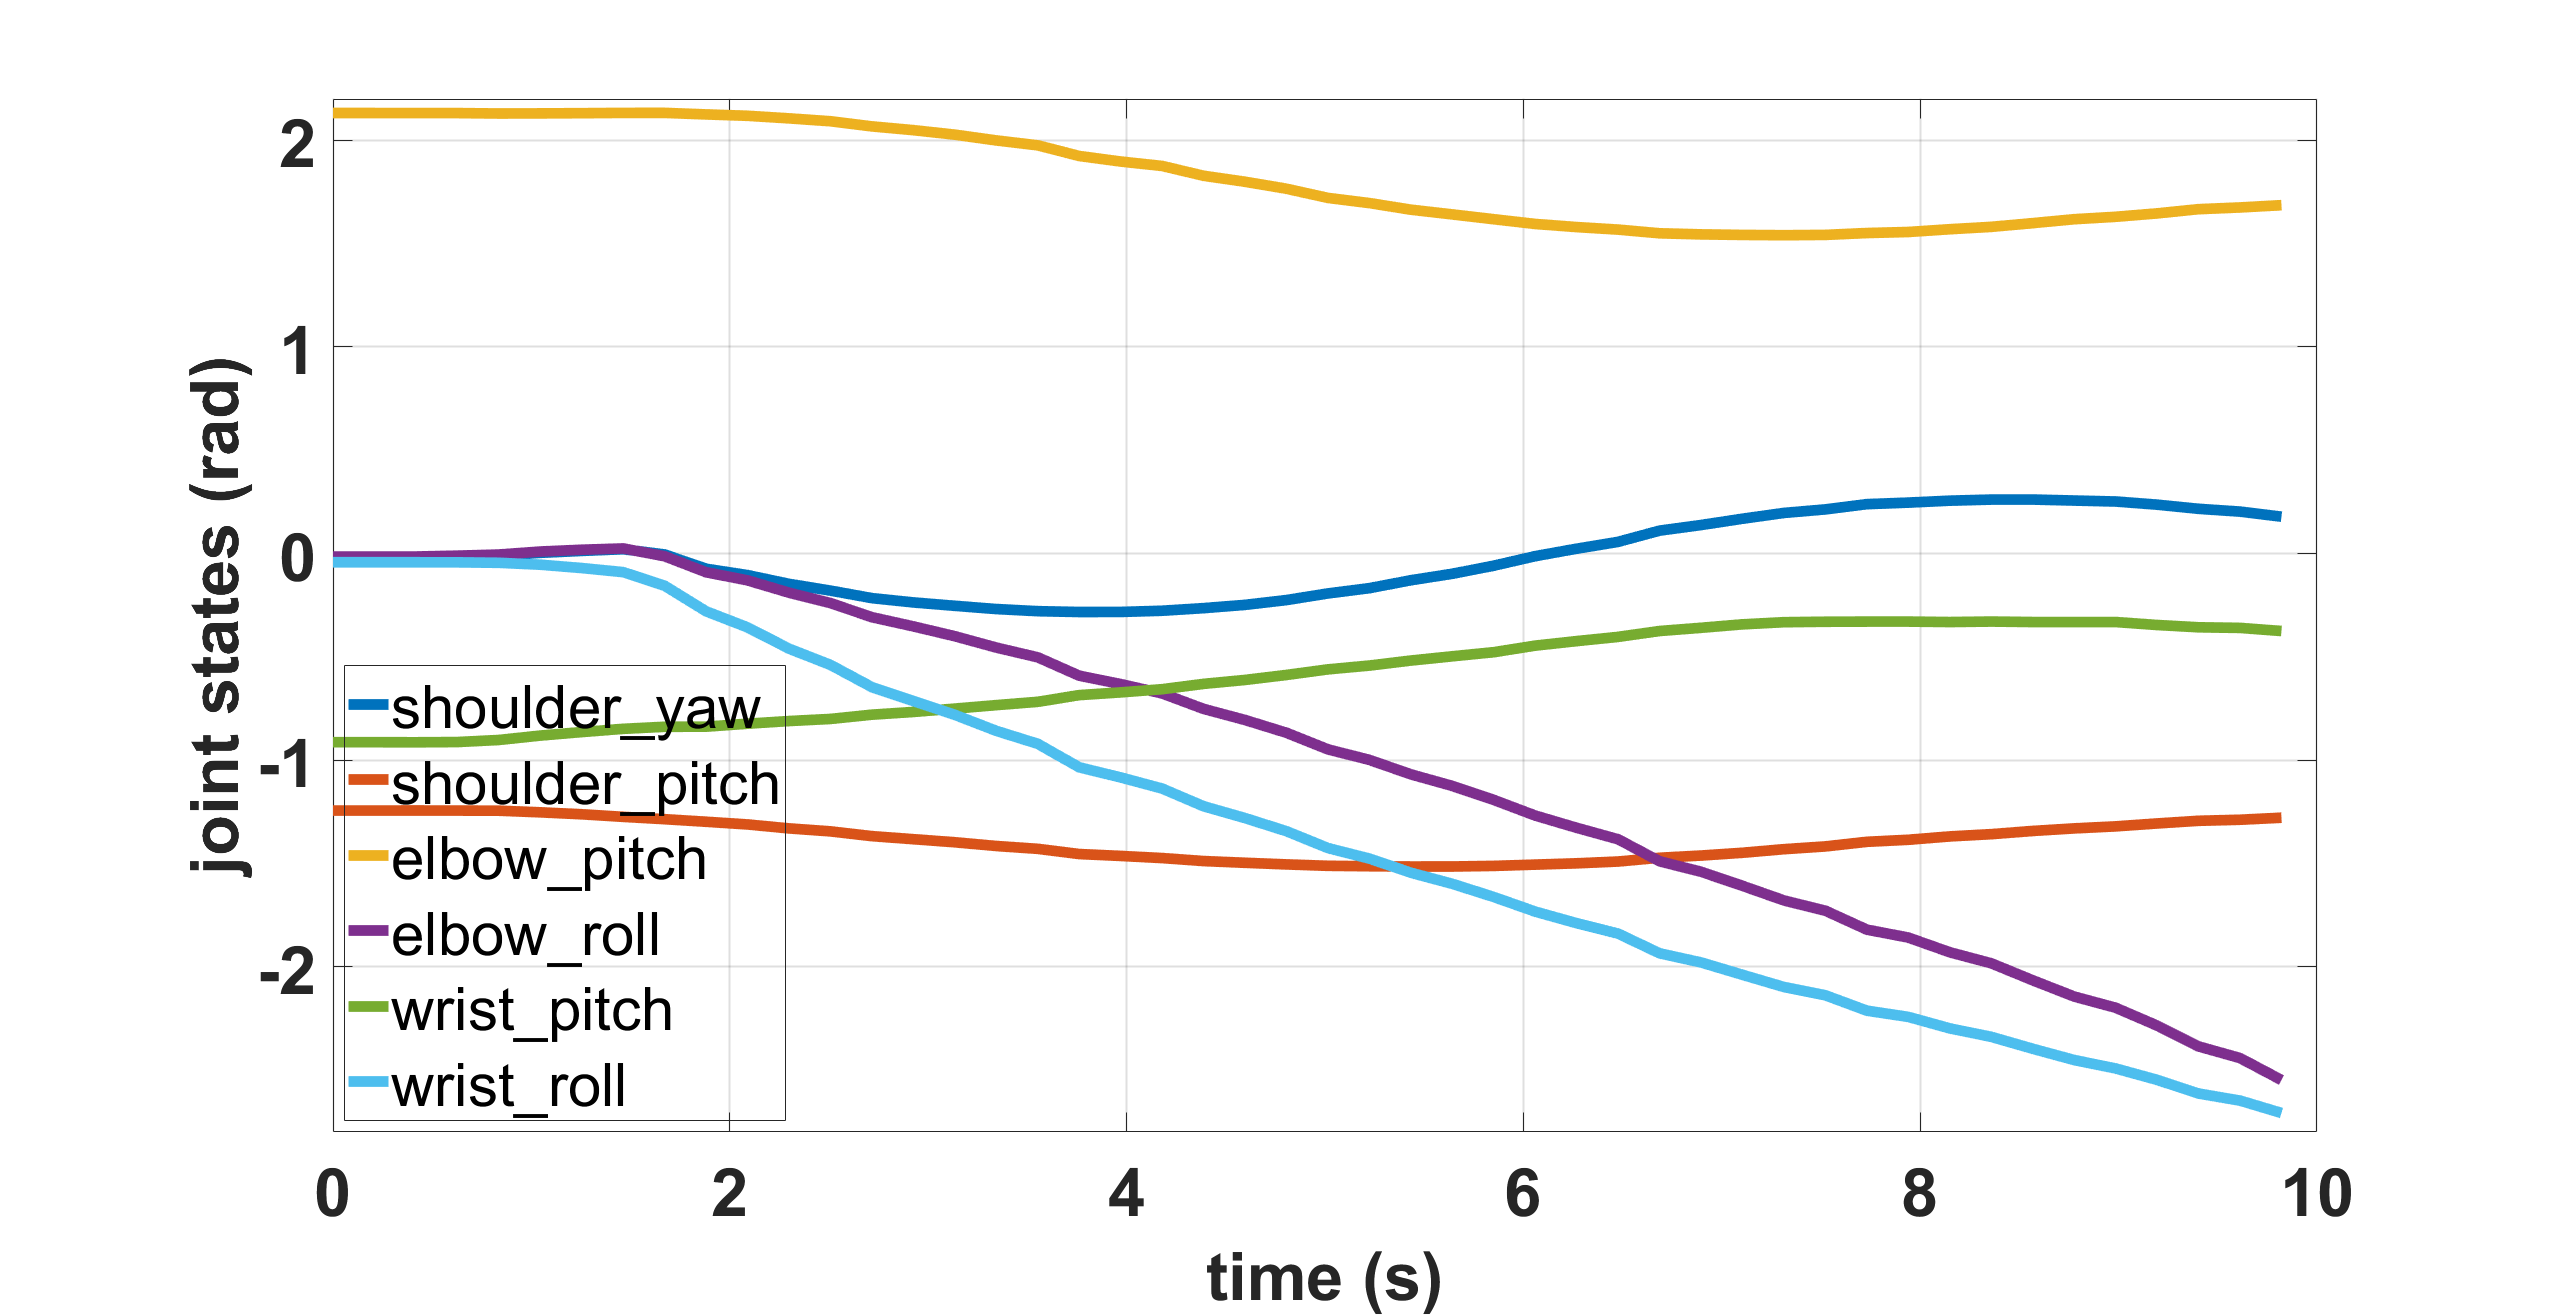
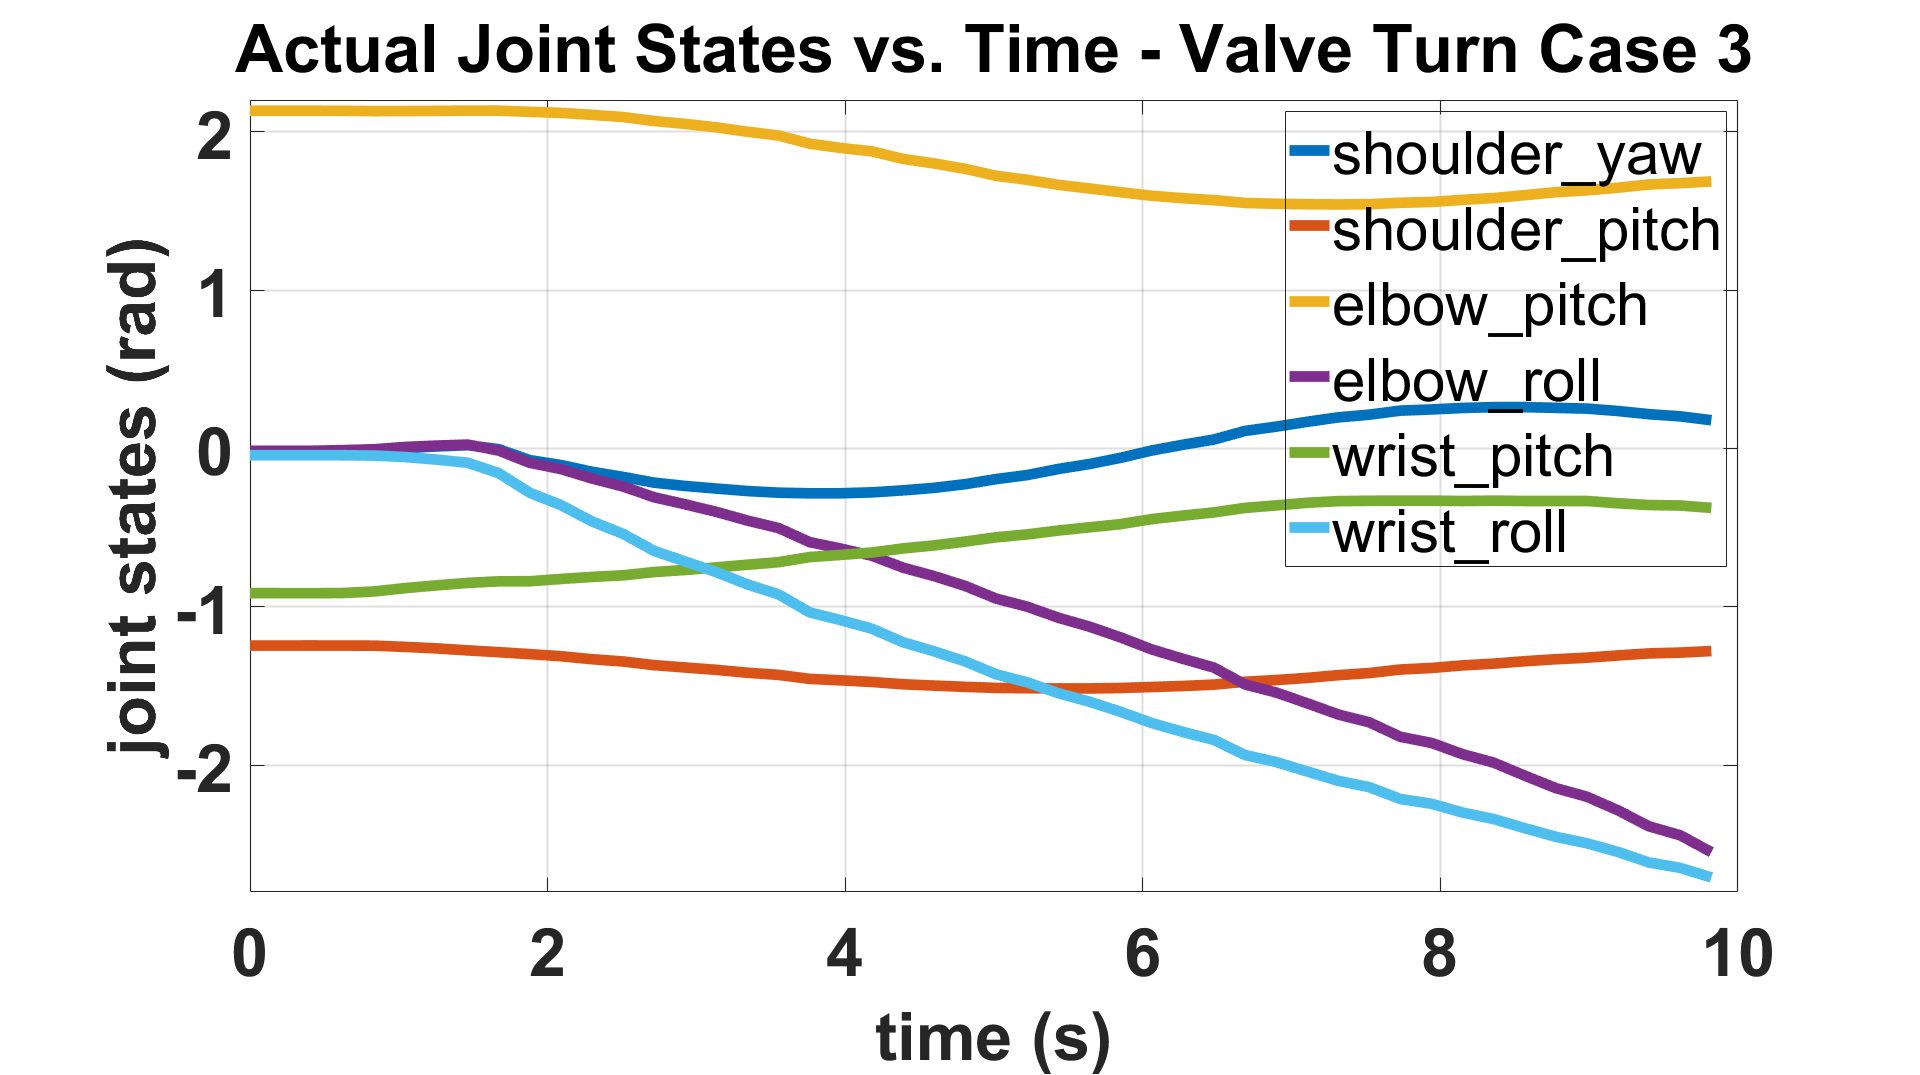
add subtitles

diff --git a/real_robot_data_plots_and_demos/orientation_experiments/valve_turn_case_3/ee_position_and_joint_states_plotter.m b/real_robot_data_plots_and_demos/orientation_experiments/valve_turn_case_3/ee_position_and_joint_states_plotter.m
@@ -208,7 +208,7 @@ grid_lw = 1.5;
 xlabel(ax_joint_states, 'time (s)');
 ylabel(ax_joint_states, 'joint states (rad)');
 legend(ax_joint_states,'Interpreter', 'none', 'Color', 'none'); % Don't interpret underscores as cues for subscripts, and don't fill the legend box
-% title(ax_joint_states, ['Actual Joint States vs. Time - ',title_postfix]);
+title(ax_joint_states, ['Actual Joint States vs. Time - ',title_postfix]);
 
 % Set fontsizes for various plot parameters
 ax_joint_states.XAxis.FontSize = tick_fontsize; 
@@ -219,7 +219,7 @@ ax_joint_states.XLabel.FontSize = label_fontsize;
 ax_joint_states.YLabel.FontSize = label_fontsize;
 ax_joint_states.ZLabel.FontSize = label_fontsize;
 ax_joint_states.Legend.FontSize = legend_fontsize;
-ax_joint_states.Legend.Location = "southwest";
+ax_joint_states.Legend.Location = "northeast";
 ax_joint_states.Title.FontSize = title_fontsize;
 ax_joint_states.GridLineWidth = grid_lw;
 
@@ -363,7 +363,7 @@ yticks(0:100:500)
 
 xlabel(ax_ee_traj_final, 'y(mm)');
 ylabel(ax_ee_traj_final, 'z(mm)');
-% title(ax_ee_traj_error2, ['EE Trajectory and Error - ',title_postfix]);
+title(ax_ee_traj_final, ['EE Position Trajectory - ',title_postfix]);
 hLegend = legend(ax_ee_traj_final, 'Interpreter', 'none', 'Color', 'none');
 hLegend.Box = 'on'; % Turn on the legend box (if not already on)
 hLegend.Color = 'white'; % Set the background color of the legend box
@@ -395,7 +395,7 @@ ax_ee_traj_final.Legend.FontSize = legend_fontsize;
 
 
 fig5 = figure(5);
-title_fontsize = 35;
+title_fontsize = 45;
 label_fontsize = 45;
 tick_fontsize = 40;
 grid_lw = 1.5;
@@ -411,7 +411,7 @@ plot(ax_ee_traj_error_final, ...
      'LineWidth', 8, 'MarkerSize', 12, 'DisplayName', 'trajectory error');
 xlabel(ax_ee_traj_error_final, 'predicted trajectory point index');
 ylabel(ax_ee_traj_error_final, 'ee trajectory error (mm)');
-% title(ax_ee_traj_error3, ['EE Trajectory Error - ',title_postfix]);
+title(ax_ee_traj_error_final, ['EE Position Trajectory Error - ',title_postfix]);
 
 grid on
 xlim([point_labels(1) point_labels(end)]);
@@ -493,10 +493,10 @@ xticks(0:2:8)
 
 xlabel(ax_ee_or, 'time (t), s');
 ylabel(ax_ee_or, 'ee orientation, rad');
-% title(ax_ee_or, ['EE Orientation - ',title_postfix]);
-text(ax_ee_or, 3, -1.5, sprintf('r_p = %.3f*t %.3f : predicted', pred_polyfit_euler_x), ...
+title(ax_ee_or, ['EE Orientation Trajectory - ',title_postfix]);
+text(ax_ee_or, 3, -1.5, sprintf('r_p = %.3f*t %.3f', pred_polyfit_euler_x), ...
     'Rotation', -35, 'FontWeight', 'bold', 'FontSize',25, 'Color', 'r');
-text(ax_ee_or, 2.6, -2.4, sprintf('r_a = %.3f*t %.3f : actual', act_polyfit_euler_x), ...
+text(ax_ee_or, 2.6, -2.4, sprintf('r_a = %.3f*t %.3f', act_polyfit_euler_x), ...
     'Rotation', -35, 'FontWeight', 'bold', 'FontSize',25, 'Color','#f08080');
 legend([pred_or_plot_euler_y, pred_or_plot_euler_z, pred_or_plot_euler_x_trend, act_or_plot_euler_y, act_or_plot_euler_z, act_or_plot_euler_x_trend], 'Color', 'none');
 
